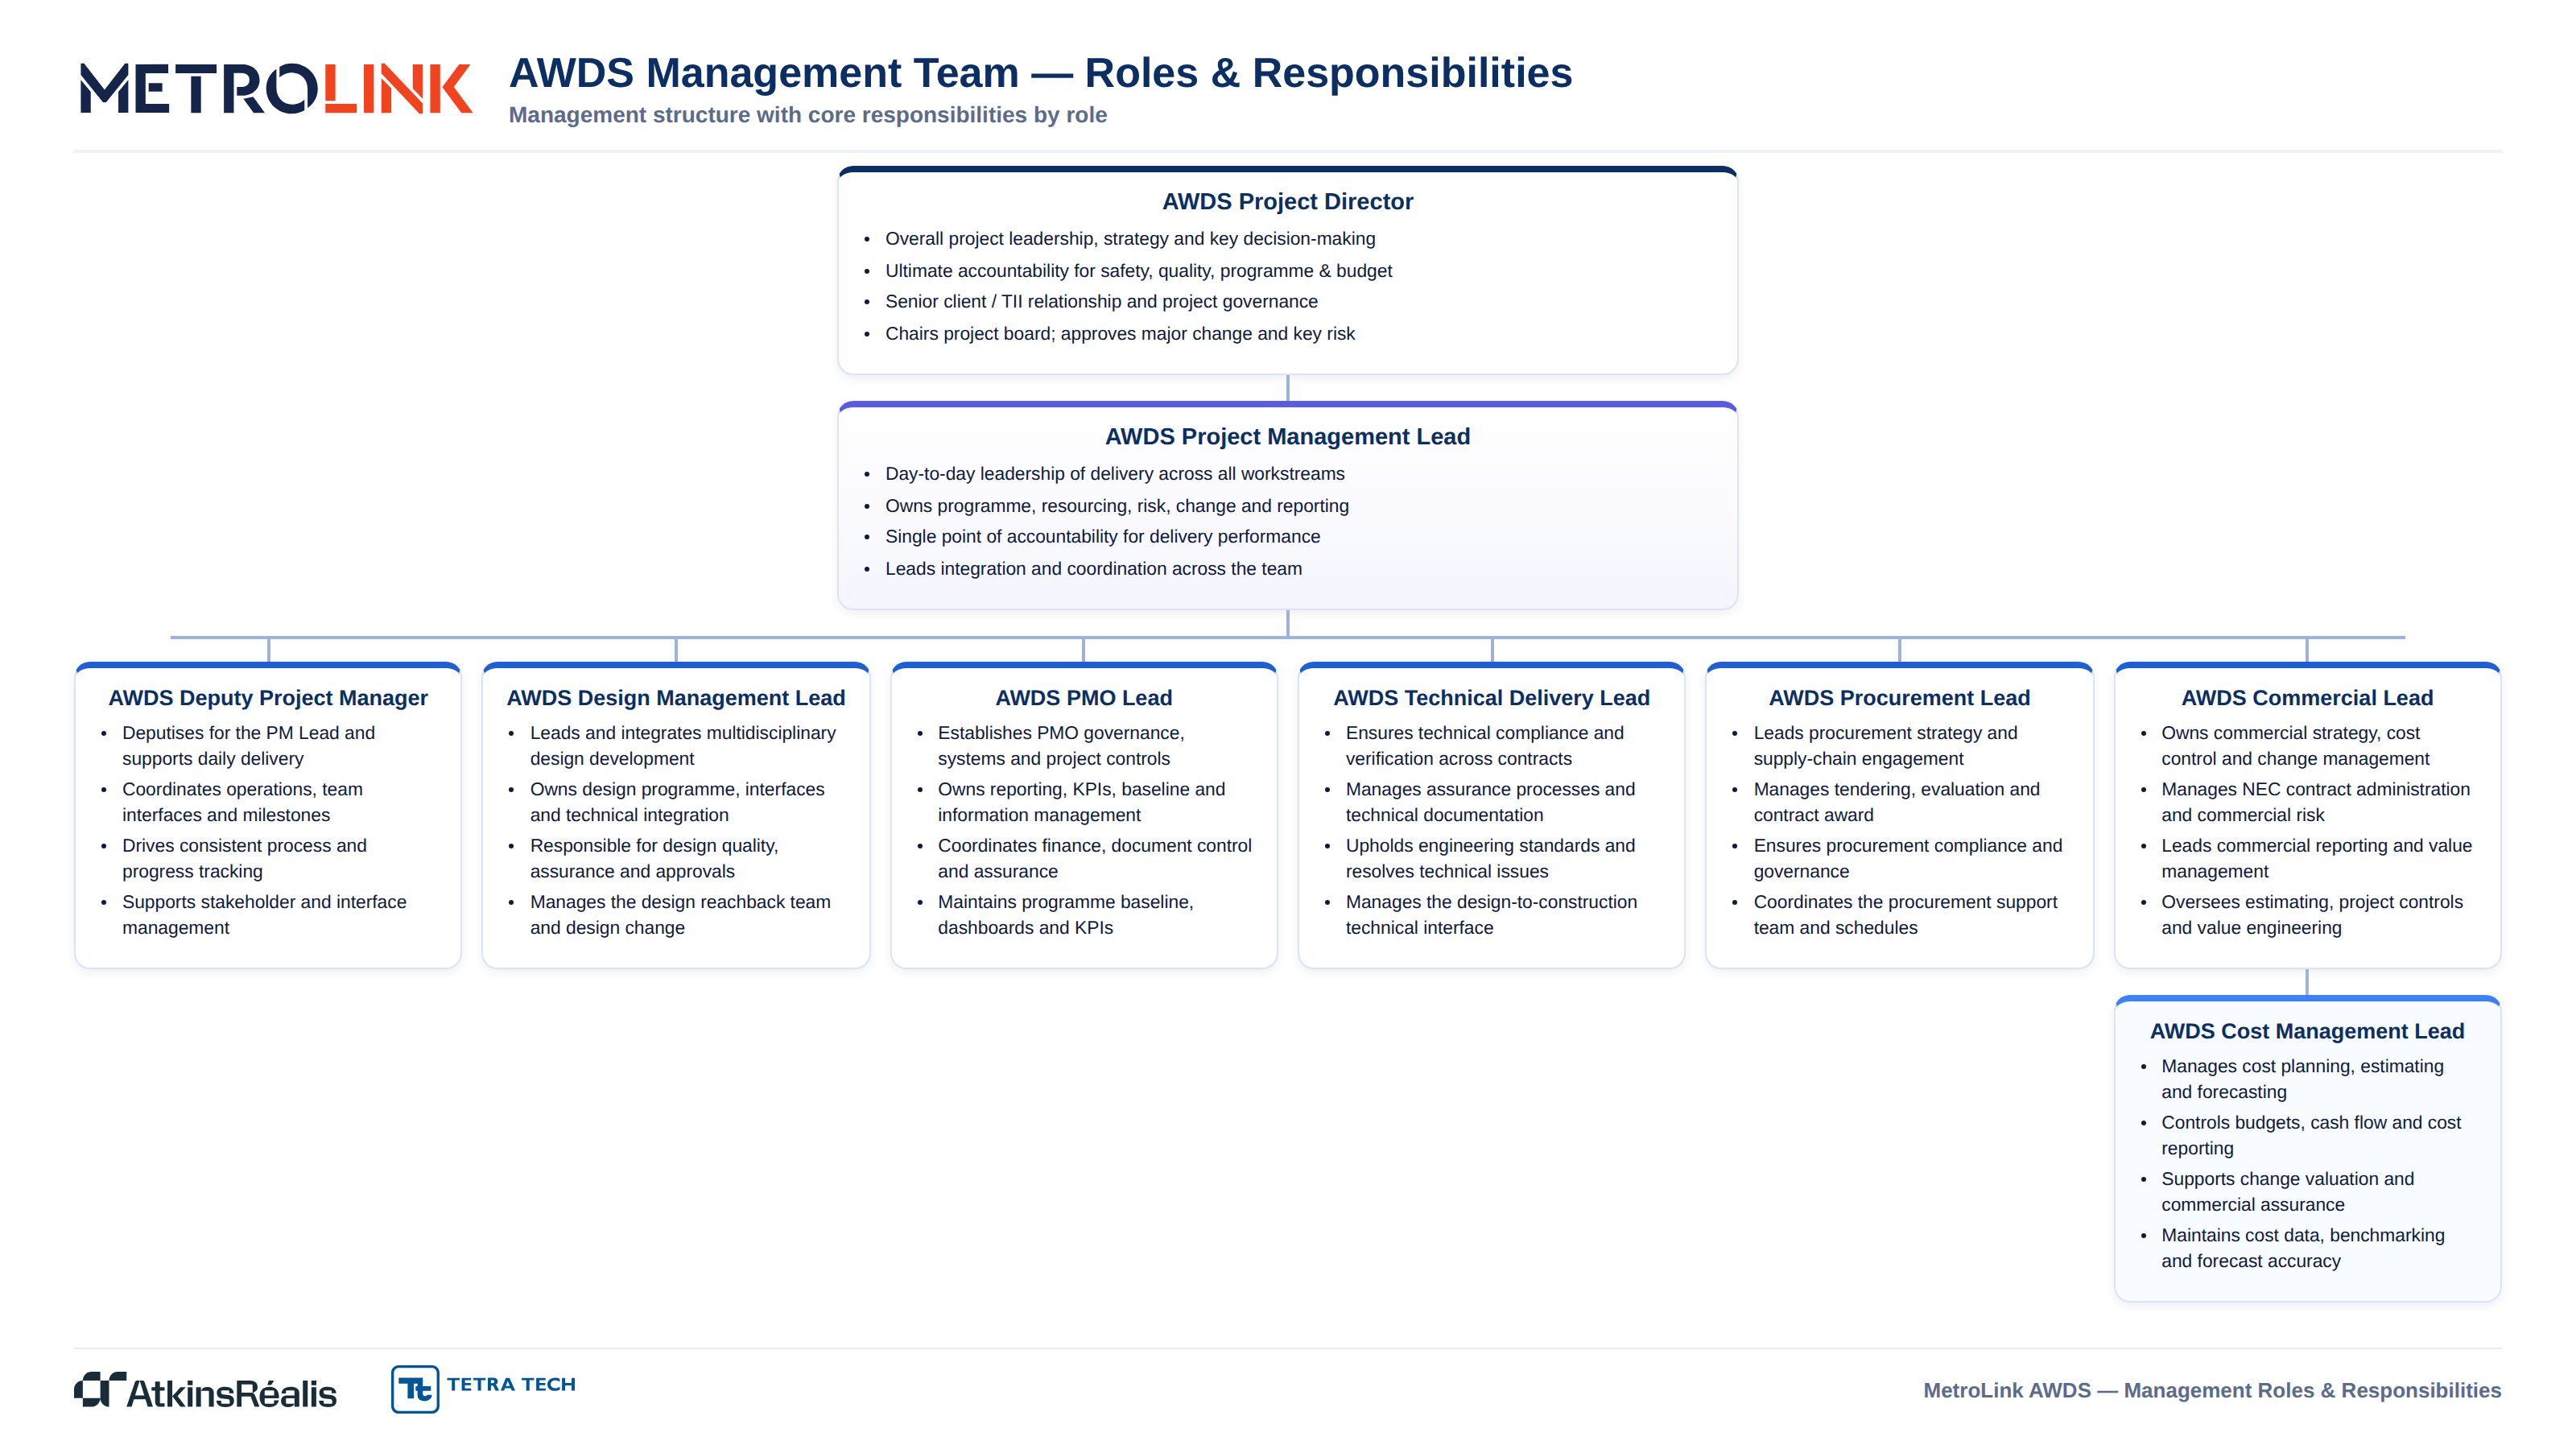
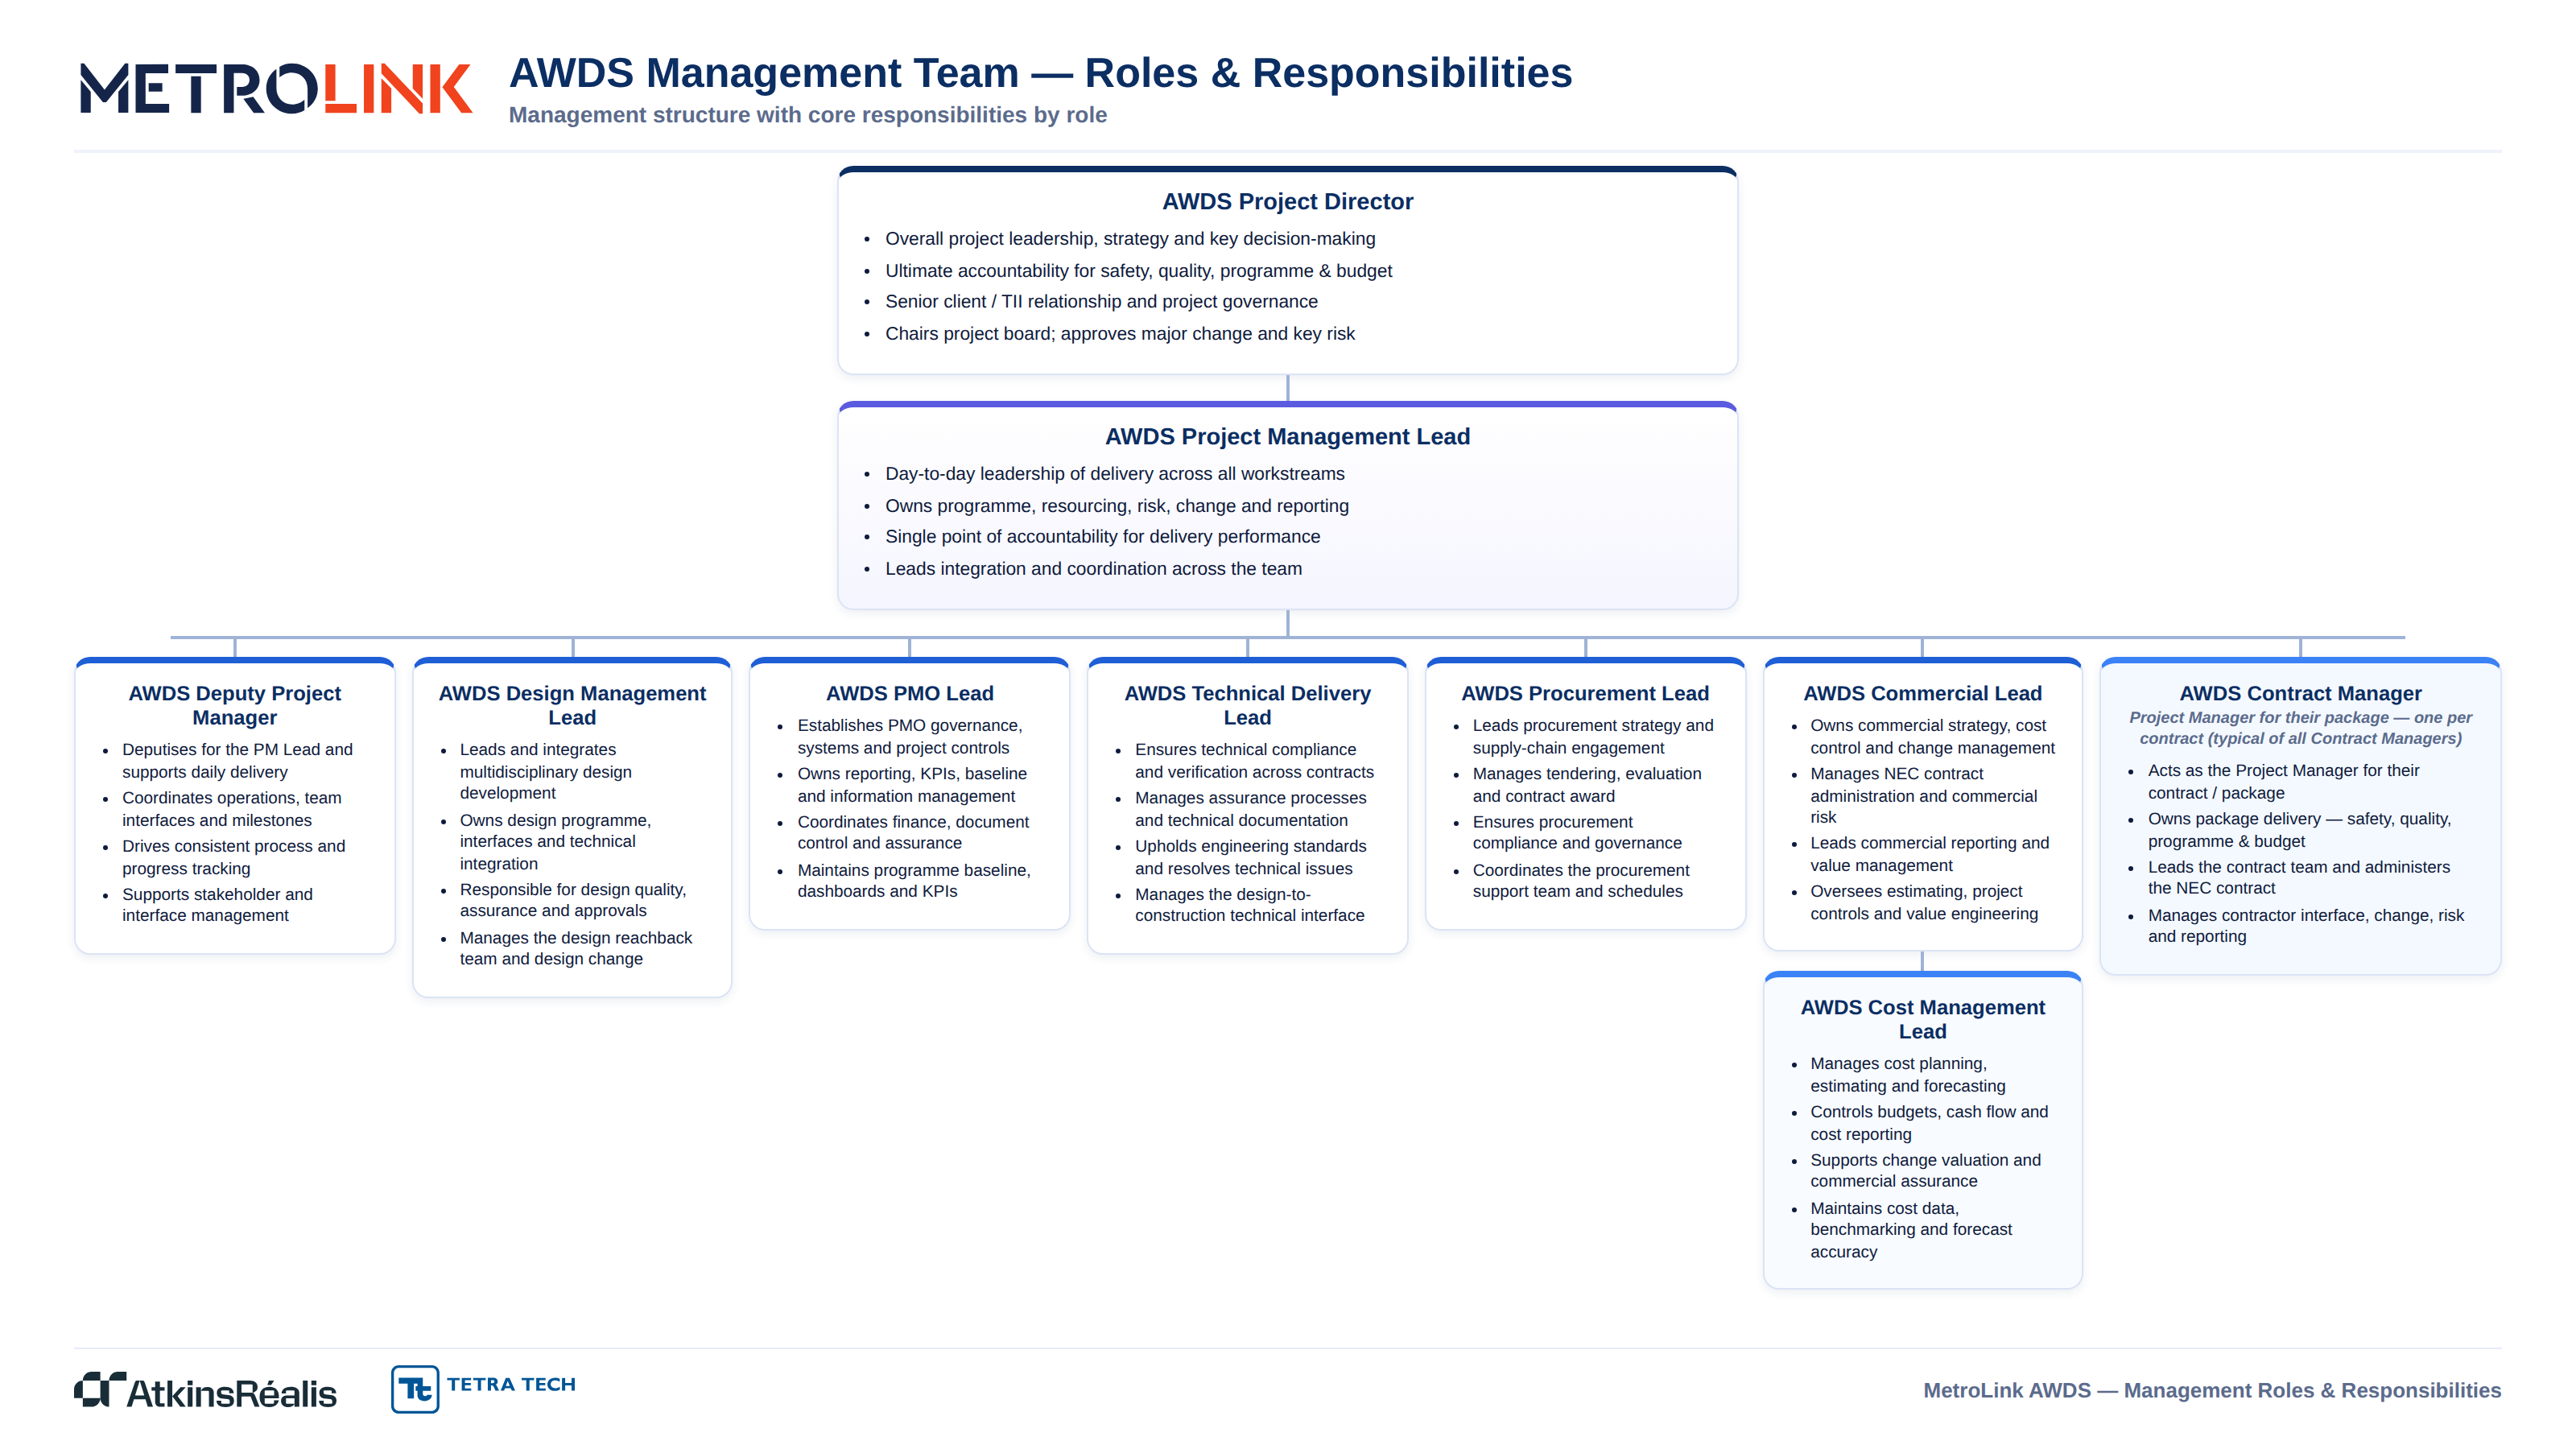
Add Contract Manager role to responsibilities slide
Include a single, distinctly-styled AWDS Contract Manager card in the top
row of subordinate roles (reporting into the AWDS Project Management Lead),
described as the Project Manager for their package. Compact the lead-row
cards so the layout clears the footer.

Claude-Session: https://claude.ai/code/session_01HipqgLL7MjBA4afDuZ6PiL

Changed region(s): [[0.0312, 0.4356, 0.9688, 0.8711], [0.8125, 0.6844, 0.9688, 0.9022]]

diff --git a/org-chart/responsibilities.html b/org-chart/responsibilities.html
@@ -41,10 +41,15 @@
   .rcard.director{border-top-color:var(--navy);}
   .rcard.pm{border-top-color:var(--indigo);background:linear-gradient(180deg,#fff,#f5f5ff);}
   .rcard.cost{border-top-color:var(--sky);background:#f8fbff;}
+  .rcard.cm{border-top-color:var(--sky);background:#f4f9ff;}
+  .rcard .sub{display:block;font-size:10px;font-weight:600;color:var(--muted);font-style:italic;margin-top:3px;line-height:1.25;}
   .rcard .rt big{font-size:14.5px;}
 
   .top{display:flex;flex-direction:column;align-items:center;width:560px;}
-  .leadrow{display:flex;justify-content:space-between;gap:12px;width:100%;align-items:flex-start;}
+  .leadrow{display:flex;justify-content:space-between;gap:10px;width:100%;align-items:flex-start;}
+  .leadrow .rcard .rt{font-size:12.8px;}
+  .leadrow .rcard li{font-size:10.4px;line-height:1.29;margin-bottom:3px;}
+  .leadrow .stem{height:11px;}
   .col{flex:1;display:flex;flex-direction:column;align-items:center;}
 </style>
 </head>
@@ -129,12 +134,20 @@
               <li>Manages NEC contract administration and commercial risk</li>
               <li>Leads commercial reporting and value management</li>
               <li>Oversees estimating, project controls and value engineering</li></ul></div>
-        <div class="v" style="height:16px;"></div>
+        <div class="v" style="height:12px;"></div>
         <div class="rcard cost"><div class="rt">AWDS Cost Management Lead</div>
           <ul><li>Manages cost planning, estimating and forecasting</li>
               <li>Controls budgets, cash flow and cost reporting</li>
               <li>Supports change valuation and commercial assurance</li>
               <li>Maintains cost data, benchmarking and forecast accuracy</li></ul></div></div>
+
+      <div class="col" style="flex:1.25;"><div class="stem"></div>
+        <div class="rcard cm"><div class="rt">AWDS Contract Manager
+          <span class="sub">Project Manager for their package — one per contract (typical of all Contract Managers)</span></div>
+          <ul><li>Acts as the Project Manager for their contract / package</li>
+              <li>Owns package delivery — safety, quality, programme &amp; budget</li>
+              <li>Leads the contract team and administers the NEC contract</li>
+              <li>Manages contractor interface, change, risk and reporting</li></ul></div></div>
     </div>
   </div>
 